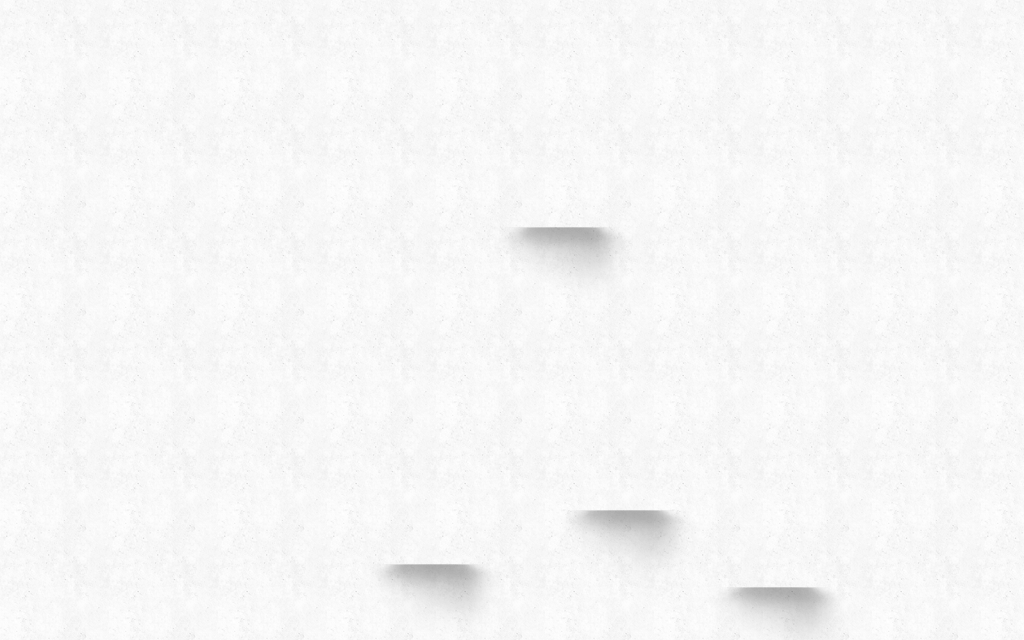
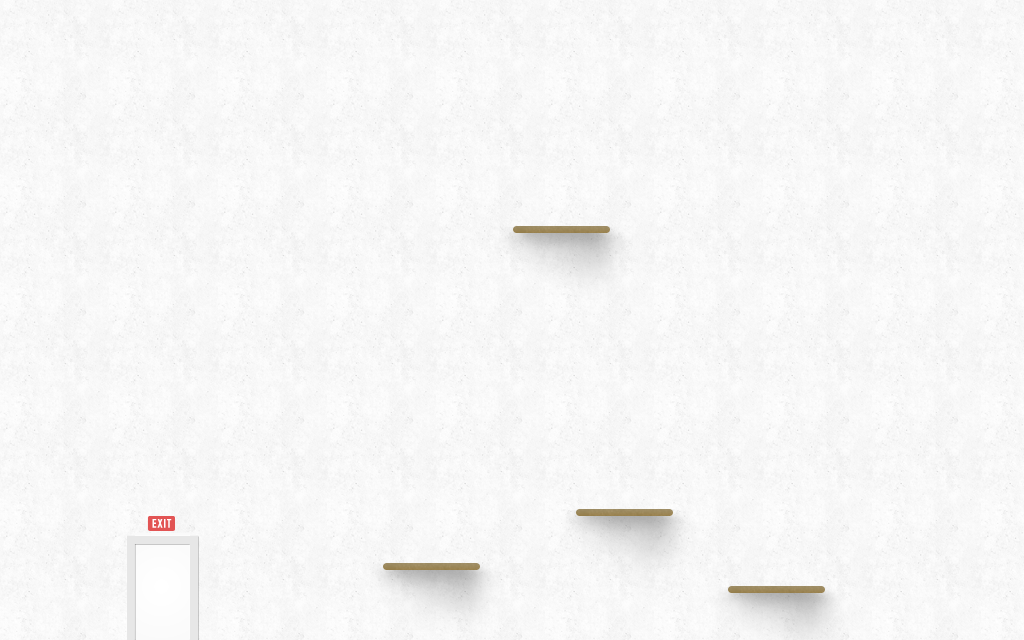
Fixes for level 1

diff --git a/public/css/global.css b/public/css/global.css
@@ -1,16 +1,20 @@
+/* line 6, ../sass/global.scss */
 .stage .banner .controls:before, .stage .banner .controls:after {
   content: " ";
   display: table;
 }
+/* line 10, ../sass/global.scss */
 .stage .banner .controls:after {
   clear: both;
 }
 
+/* line 14, ../sass/global.scss */
 .stage .banner .controls {
   list-style: none;
   padding: 0;
   margin: 0;
 }
+/* line 19, ../sass/global.scss */
 .stage .banner .controls > li {
   float: left;
 }
@@ -23,22 +27,26 @@
   font-style: normal;
 }
 
+/* line 35, ../sass/global.scss */
 body {
-  background: url('../img/main-background.jpg?1354256838') 10% 70% repeat;
+  background: url('/img/main-background.jpg?1354256838') 10% 70% repeat;
   font-family: dosissemibold, sans-serif;
 }
 
+/* line 41, ../sass/global.scss */
 .stage header {
-  background: url('../img/main-header.png?1354256838') 0 0 no-repeat;
+  background: url('/img/main-header.png?1354256838') 0 0 no-repeat;
   width: 1205px;
   height: 82px;
   margin: 20px auto;
 }
+/* line 47, ../sass/global.scss */
 .stage > .inner {
   position: relative;
   width: 1226px;
   margin: 0 auto;
 }
+/* line 52, ../sass/global.scss */
 .stage .intro-container {
   background: transparent url("/public/img/intro-screen-01.jpg") center center no-repeat;
   width: 1024px;
@@ -48,28 +56,32 @@ body {
   left: 101px;
   z-index: 100;
 }
+/* line 61, ../sass/global.scss */
 .stage .next-intro-btn {
   cursor: pointer;
   position: absolute;
   top: 340px;
   left: 670px;
   z-index: 200;
-  background: url('../img/next_button.png?1354321165') 0 0 no-repeat;
+  background: url('/img/next_button.png?1354349989') 0 0 no-repeat;
   width: 49px;
   height: 49px;
 }
+/* line 70, ../sass/global.scss */
 .stage .next-intro-btn:hover {
-  background: url('../img/next_button_hover.png?1354321394') 0 0 no-repeat;
+  background: url('/img/next_button_hover.png?1354349989') 0 0 no-repeat;
 }
+/* line 74, ../sass/global.scss */
 .stage .bricks {
   z-index: 5;
   position: absolute;
   top: 0;
-  background: url('../img/brick-border-background.jpg?1354256838') 0 0 repeat-y;
+  background: url('/img/brick-border-background.jpg?1354327843') 0 0 repeat-y;
   width: 75px;
   height: 640px;
   border-color: #797052;
 }
+/* line 82, ../sass/global.scss */
 .stage .bricks.left {
   left: 102px;
   border-right-width: 2px;
@@ -78,6 +90,7 @@ body {
   -moz-box-shadow: -5px 0 10px #3e3e3e;
   box-shadow: -5px 0 10px #3e3e3e;
 }
+/* line 88, ../sass/global.scss */
 .stage .bricks.right {
   right: 102px;
   border-left-width: 2px;
@@ -86,43 +99,53 @@ body {
   -moz-box-shadow: 5px 0 10px #3e3e3e;
   box-shadow: 5px 0 10px #3e3e3e;
 }
+/* line 95, ../sass/global.scss */
 .stage .banner {
   z-index: 10;
   position: relative;
-  background: url('../img/banner-background.jpg?1354256838') 0 0 no-repeat, url('../img/banner-corner.png?1354256838') left bottom no-repeat, url('../img/banner-corner.png?1354256838') right bottom no-repeat;
+  background: url('/img/banner-background.jpg?1354256838') 0 0 no-repeat, url('/img/banner-corner.png?1354256838') left bottom no-repeat, url('/img/banner-corner.png?1354256838') right bottom no-repeat;
   width: 1226px;
   height: 140px;
 }
+/* line 104, ../sass/global.scss */
 .stage .banner .btn {
   position: absolute;
   top: 20px;
   cursor: pointer;
 }
+/* line 108, ../sass/global.scss */
 .stage .banner .btn:hover {
   top: 21px;
 }
+/* line 111, ../sass/global.scss */
 .stage .banner .btn.info {
   left: 60px;
 }
+/* line 114, ../sass/global.scss */
 .stage .banner .btn.credits {
   right: 60px;
 }
+/* line 118, ../sass/global.scss */
 .stage .banner .controls {
   width: 375px;
   margin: 0 auto;
 }
+/* line 122, ../sass/global.scss */
 .stage .banner .controls > li {
   padding-top: 20px;
   margin-left: 10px;
 }
+/* line 125, ../sass/global.scss */
 .stage .banner .controls > li:first-child {
   margin-left: 0;
 }
+/* line 128, ../sass/global.scss */
 .stage .banner .controls > li img {
   -webkit-box-shadow: 0px 5px 10px rgba(0, 0, 0, 0.25);
   -moz-box-shadow: 0px 5px 10px rgba(0, 0, 0, 0.25);
   box-shadow: 0px 5px 10px rgba(0, 0, 0, 0.25);
 }
+/* line 131, ../sass/global.scss */
 .stage .banner .controls > li .description {
   display: block;
   text-align: center;
@@ -132,9 +155,10 @@ body {
   text-shadow: 0 2px 5px #454545;
 }
 
+/* line 144, ../sass/global.scss */
 #gamescape {
   display: block;
   background-color: #fafafa;
   margin: 0 auto;
-  background: url('../img/level-asset-background-01-dev.png?1354256838');
+  background: url('/img/level-asset-background-01.png?1354373823');
 }

diff --git a/public/sass/global.scss b/public/sass/global.scss
@@ -145,5 +145,5 @@ body {
   display: block;
   background-color: #fafafa;
   margin: 0 auto;
-  @include background(image-url('level-asset-background-01-dev.png'));
+  @include background(image-url('level-asset-background-01.png'));
 }
